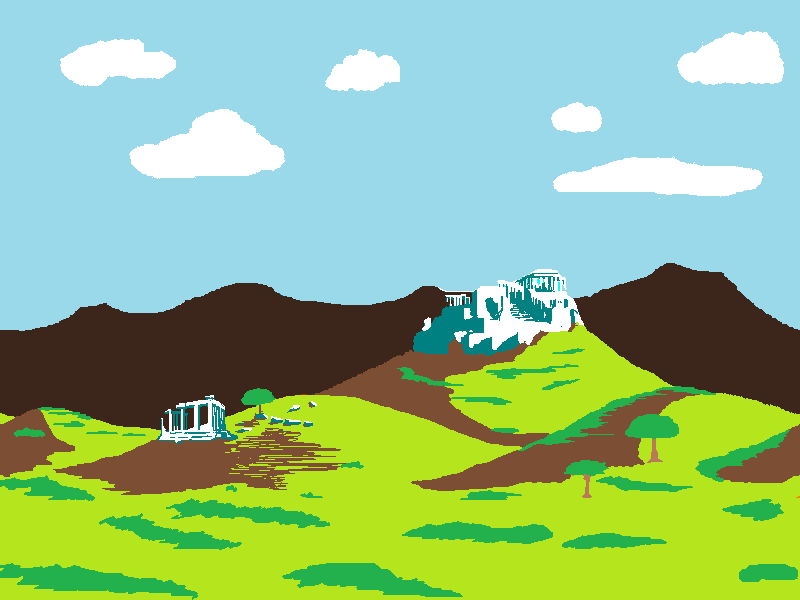
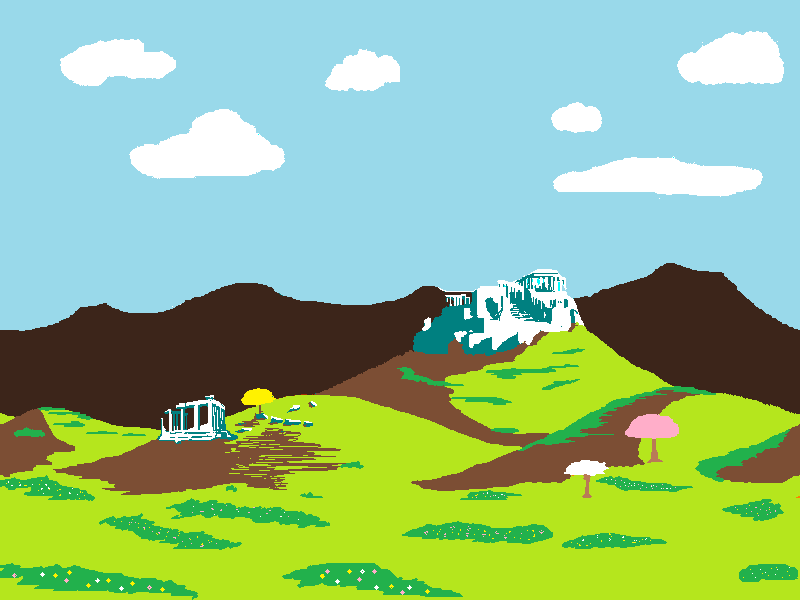
added spring landscape backdrop and added coded for it as well. trying to slow down cycle.

Changed region(s): [[0.7812, 0.69, 0.8438, 0.75], [0.6875, 0.75, 0.75, 0.81], [0.2812, 0.63, 0.3438, 0.69]]

diff --git a/Infinite Sidescroller/GameCode/Controllers/GraphicsController.js b/Infinite Sidescroller/GameCode/Controllers/GraphicsController.js
@@ -2,14 +2,14 @@
 var GraphicsController = (function(){
 	/* all the graphics stuff. and what did you expect?
 	*/
-
+	var colorTick; //to slow down season changes
 	var get_asset; 
 	var hero, ant; // for quicker access
 	var type_renderer_table;
 	var Graphics;
 	var reRender = false;
 	var seasonArray = [];
-	var seasonImg = ["Fall", "Spring", "Winter"];
+	var seasonImg = ["Fall", "Summer", "Spring", "Winter"];
 	var cycle = 0;
 	
 	var init = function(){
@@ -100,8 +100,9 @@ var GraphicsController = (function(){
 		//Temporary Keyboard Call for Season Change
 		var cmds = KeyboardController.debug_commands();
 		
-		if(cmds("season"))
+		if(cmds("season") && colorTick == 5)
 		{
+			colorTick = 0;
 			delete_all_season();
 			console.log("Captain Kirk");
 			generate_season(seasonImg[cycle], GraphicsModel.stage.canvas.width, 0);
@@ -111,7 +112,7 @@ var GraphicsController = (function(){
 				cycle = 0;
 			}
 		}
-		
+		colorTick++;
 		
 		
 		

diff --git a/Infinite Sidescroller/GameCode/Models/AssetModel.js b/Infinite Sidescroller/GameCode/Models/AssetModel.js
@@ -14,7 +14,8 @@ var AssetModel = new function(){
 			{src: "AntChompersDeath.png", id: "Ant3"},
 			{src: "Greek Landscape fall.png", id: "Fall"},
 			{src: "Greek Landscape spring.png", id: "Spring"},
-			{src: "Greek Landscape winter.png", id: "Winter"}
+			{src: "Greek Landscape winter.png", id: "Winter"},
+			{src: "Greek Landscape summer.png", id: "Summer"}
 		]; 
 		// TODO make adding resources easier? Automatic loading 
 		// of everything from assets, automatic names etc.?
